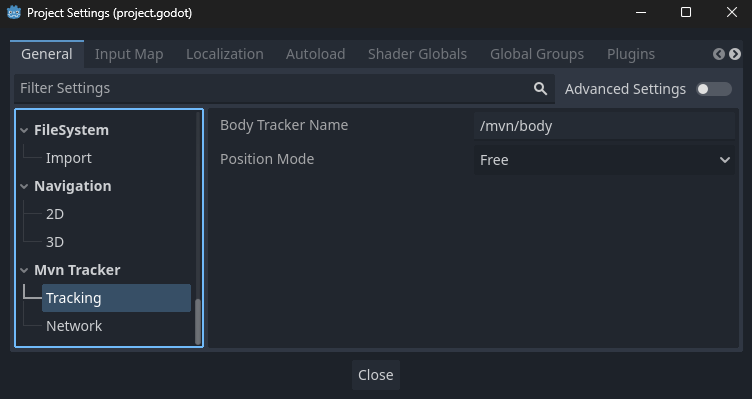
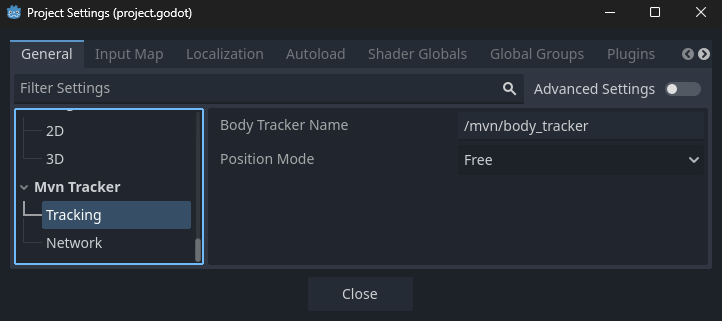
Changes to work with SkeletonModifier3D and the XRTacker changes. (#1)

diff --git a/README.md b/README.md
@@ -16,7 +16,9 @@ Official releases are tagged and can be found [here](https://github.com/Malcolmn
 The following branches are in active development:
 |  Branch   |  Description                  |  Godot version   |
 |-----------|-------------------------------|------------------|
-|  master   | Current development branch    |  Godot 4.3-dev4+ |
+|  master   | Current development branch    |  Godot 4.3-dev6+ |
+
+<sub>NOTE: This requires the [XR Trackers](https://github.com/godotengine/godot/pull/90645) PR which is in the Godot master branch, but no release has been made.</sub>
 
 ## Overview
 
@@ -51,7 +53,11 @@ The character model must be in Godot Humanoid format. This can be achieved in th
 
 ### Body Driving
 
-The body is driven using an [XRBodyModifier3D](https://docs.godotengine.org/en/latest/classes/class_xrbodymodifier3d.html) node configured to drive the skeleton of the character:
+The body is positioned using an [XRNode3D](https://docs.godotengine.org/en/latest/classes/class_xrnode3d.html) node configured to track the character body:
+
+![XRNode3D](/docs/xrnode3d.png)
+
+The body is posed using an [XRBodyModifier3D](https://docs.godotengine.org/en/latest/classes/class_xrbodymodifier3d.html) skeleton modifier:
 
 ![XRBodyModifier3D](/docs/xrbodymodifier3d.png)
 

diff --git a/VERSIONS.md b/VERSIONS.md
@@ -1,2 +1,5 @@
+# 1.1.0
+- Updated for changes to XR Tracker names and hierarchy
+
 # 1.0.0
 - Initial Revision
